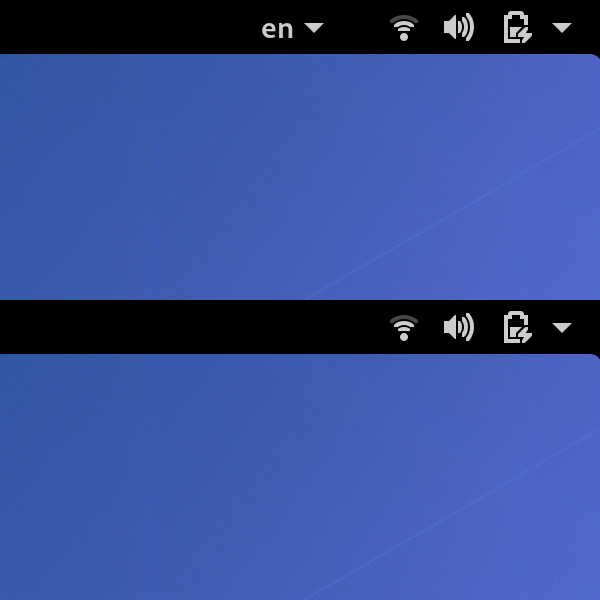
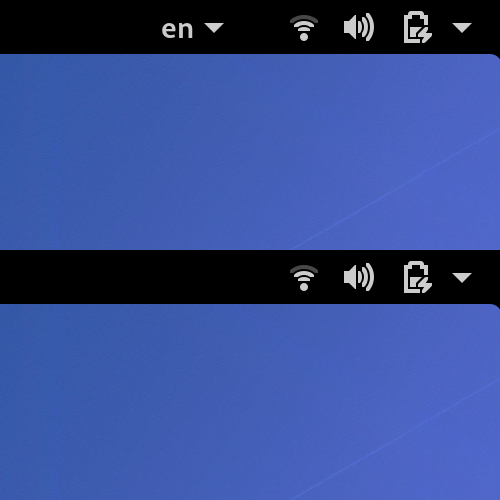
Smaller example

Changed region(s): [[0.0, 0.51, 1.0, 0.63], [0.0, 0.0, 1.0, 0.12], [0.42, 0.03, 0.54, 0.06]]

diff --git a/README.md b/README.md
@@ -1,7 +1,7 @@
 # Hide Keyboard Layout
 
 <img src="./example.png" alt="Hide Keyboard Layout"
-     width="300" height="300" align="right" />
+     width="250" height="250" align="right" />
 
 GNOME Shell extension to hide keyboard layout indicator in status bar.
 
